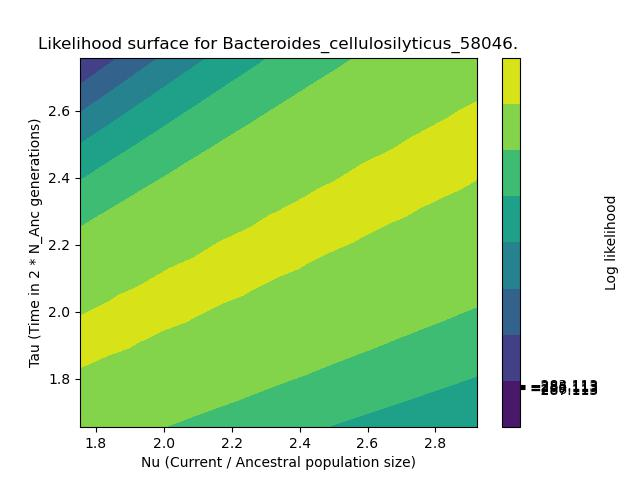
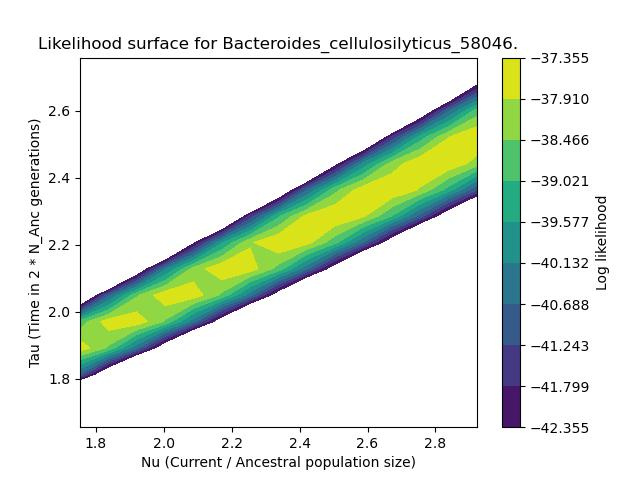
B. cell test

diff --git a/Scripts/plot_likelihood.py b/Scripts/plot_likelihood.py
@@ -497,13 +497,14 @@ class PlotLikelihood():
 
                 # fig = plt.figure()
                 fig, ax = plt.subplots()
-                z_min, z_max = -numpy.abs(Z).max() - 5, -numpy.abs(Z).max()
+                z_min, z_max = max_likelihood - 5, max_likelihood
                 # c = ax.pcolormesh(X, Y, Z, cmap='RdBu', vmin=z_min, vmax=z_max, label='Log likelihood')
                 ax.set_xlabel('Nu (Current / Ancestral population size)')
                 ax.set_ylabel('Tau (Time in 2 * N_Anc generations)')
-                contourplot = ax.contourf(X, Y, Z)
-                ticks = numpy.arange(z_min, z_max, 1.0)
-                cbar = fig.colorbar(contourplot, label='Log likelihood', ticks=ticks) # Add a colorbar to a plot
+                levels = numpy.linspace(z_min, z_max, 10)
+                contourplot = ax.contourf(X, Y, Z, levels=levels)
+                # ticks = numpy.arange(z_min, z_max, 1.0)
+                cbar = fig.colorbar(contourplot, label='Log likelihood') # Add a colorbar to a plot
                 # cbar.ax.set_ylabel('Log likelihood')
                 plt.title('Likelihood surface for {0}.'.format(species))
                 plt.savefig(file)
